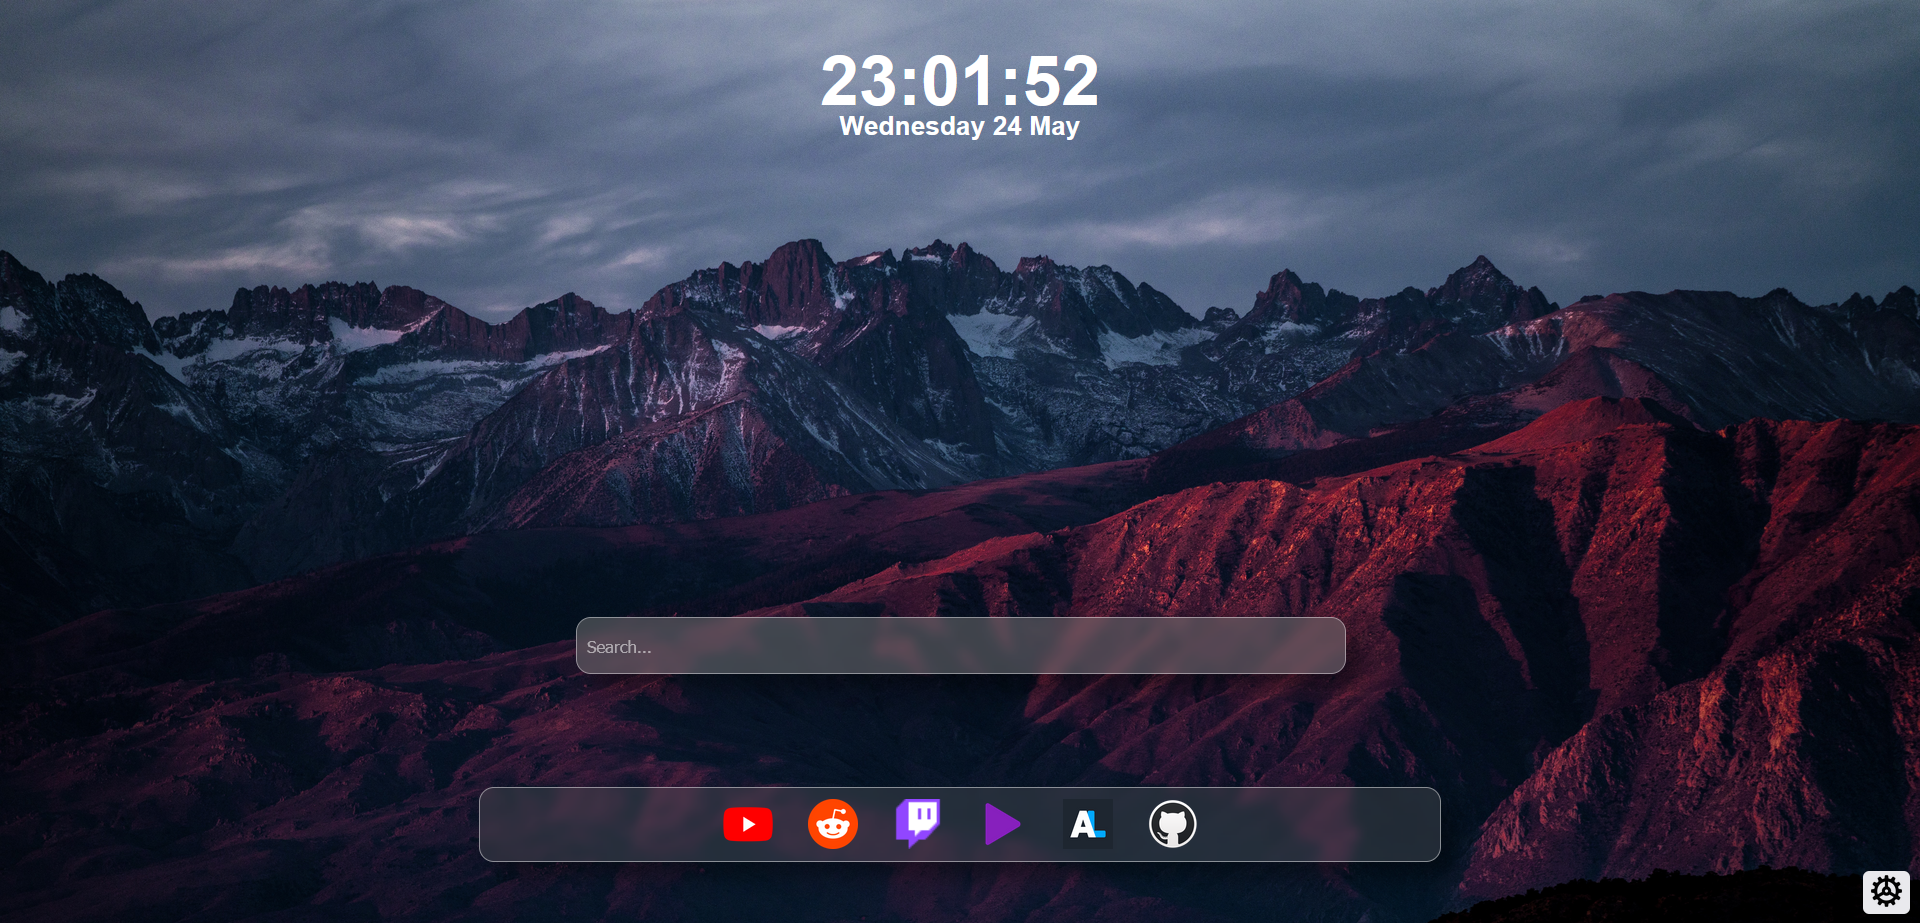
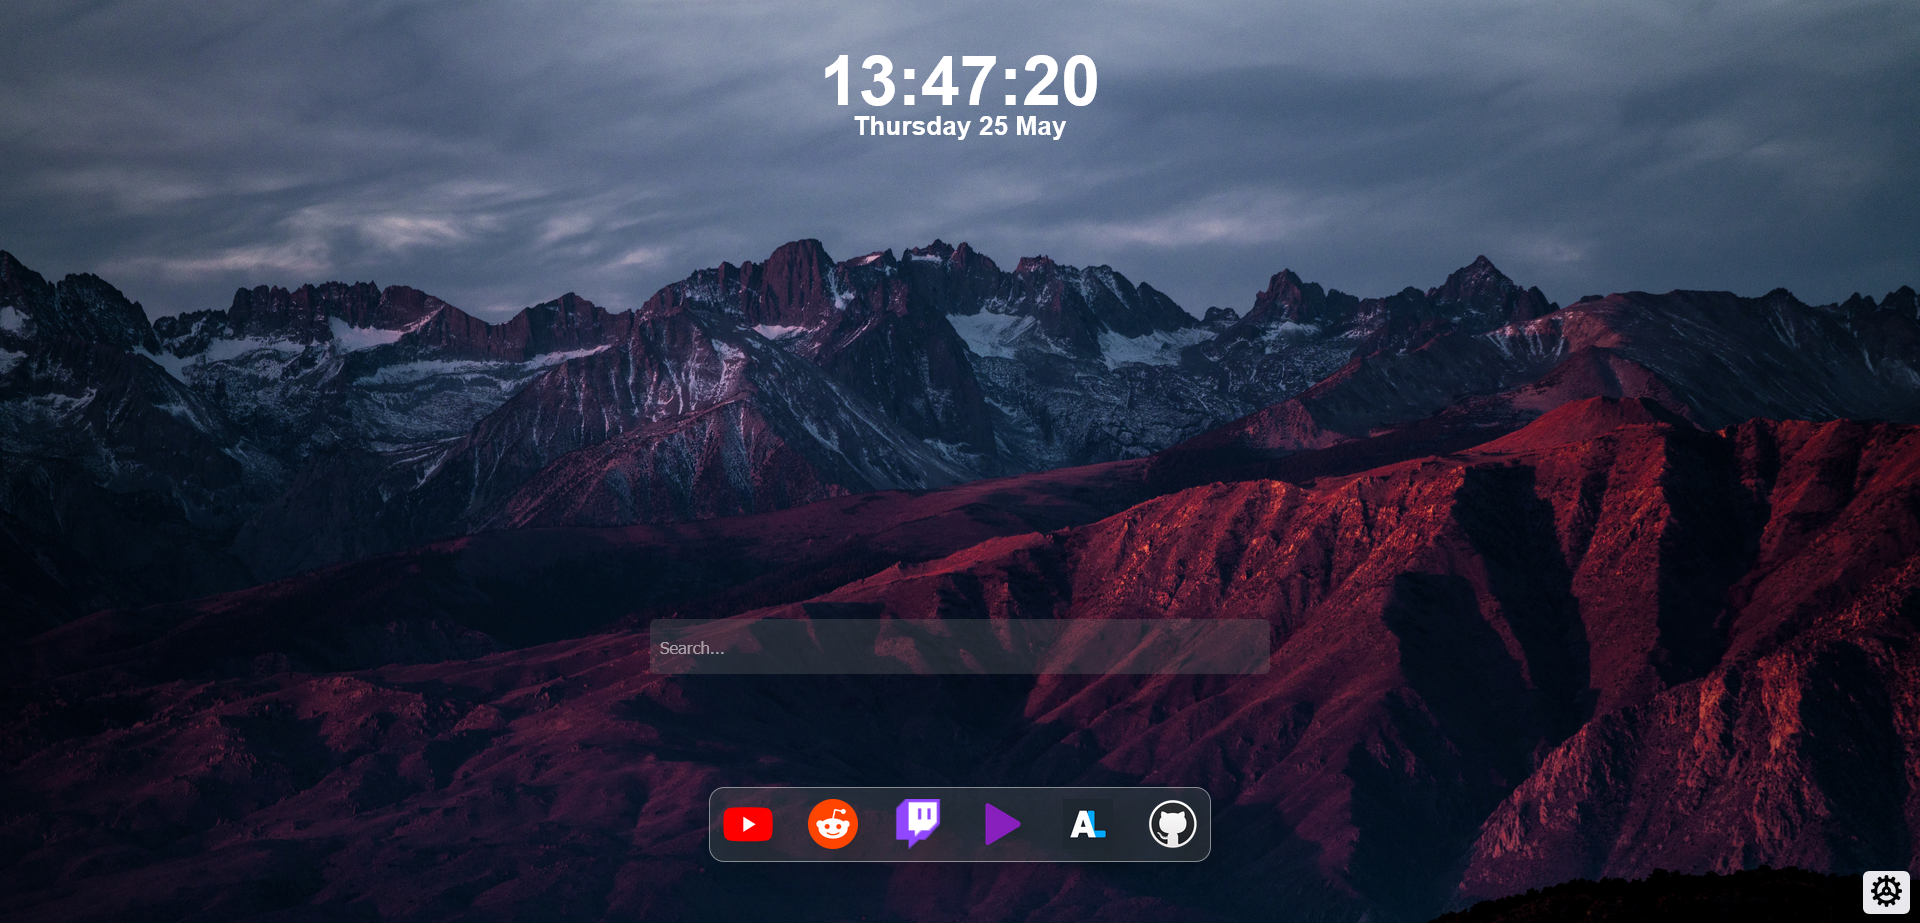
added bookmark dropdown and did some css changes

diff --git a/style.css b/style.css
@@ -70,15 +70,30 @@ input {
   border: none;
   border-radius: 5px;
   padding: 8px;
+  transition: 0.3s;
+}
+input:hover {
+  background: rgba(39, 39, 39, 0.779);
+  transition: 0.3s;
+}
+button {
+  transition: 0.3s;
+}
+button:hover {
+  background: rgba(39, 39, 39, 0.779);
+  transition: 0.3s;
 }
 .bookmark-name {
   margin-top: 4px;
+  width: 93%;
 }
 .bookmark-link {
   margin-top: 4px;
+  width: 93%;
 }
 .bookmark-image {
   margin-top: 4px;
+  width: 93%;
 }
 .gear-wrapper {
   display: flex;
@@ -95,6 +110,10 @@ input {
 .gear-icon {
   height: 30px;
   width: 30px;
+}
+.dialog-flex-container {
+  border-radius: 8px;
+  padding: 10px;
 }
 dialog {
   background-color: rgba(110, 110, 110, 0.278);
@@ -118,6 +137,9 @@ dialog {
   color: white;
   font-size: medium;
   margin-bottom: 5px;
+}
+.addbookmark-dropdown {
+  cursor: pointer;
 }
 .closeDialogButton {
   background-color: rgba(55, 55, 55, 0.779);
@@ -183,4 +205,103 @@ dialog {
   cursor: pointer;
   color: white;
   right: 2px;
+}
+.arrow {
+  margin-left: 2px;
+}
+.arrow-down {
+  transform: rotate(0deg);
+  transition: transform 0.2s linear;
+}
+.arrow-up {
+  transform: rotate(-180deg);
+  transition: transform 0.2s linear;
+}
+.select-menu .select-btn {
+  display: flex;
+  padding: 10px;
+  font-size: 16px;
+  font-weight: 400;
+  border-radius: 8px;
+  margin-top: 5px;
+  align-items: center;
+  cursor: pointer;
+  justify-content: space-between;
+  margin-left: 1px;
+}
+.select-menu .options {
+  position: absolute;
+  width: 450px;
+  overflow-y: auto;
+  max-height: 295px;
+  padding: 10px;
+  margin-top: 0px;
+  border-radius: 8px;
+  background: rgba(55, 55, 55, 0.381);
+  box-shadow: 0 0 10px rgba(0, 0, 0, 0.1);
+  animation-name: fadeInUp;
+  -webkit-animation-name: fadeInUp;
+  animation-duration: 0.35s;
+  animation-fill-mode: both;
+  -webkit-animation-duration: 0.35s;
+  -webkit-animation-fill-mode: both;
+}
+.select-menu .options .option {
+  display: flex;
+  height: 55px;
+  padding: 0 16px;
+  border-radius: 8px;
+  align-items: center;
+  background: rgba(55, 55, 55, 0.779);
+}
+.select-menu .options .option:hover {
+  background: rgba(39, 39, 39, 0.779);
+}
+.select-menu .options .option i {
+  font-size: 25px;
+  margin-right: 12px;
+}
+.select-menu .options .option .option-text {
+  font-size: 18px;
+  color: white;
+}
+
+.select-btn i {
+  font-size: 25px;
+  transition: 0.3s;
+}
+
+.select-menu.active .select-btn i {
+  transform: rotate(-180deg);
+}
+.select-menu.active .options {
+  display: block;
+  opacity: 0;
+  z-index: 10;
+  animation-name: fadeInDown;
+  -webkit-animation-name: fadeInDown;
+  animation-duration: 0.4s;
+  animation-fill-mode: both;
+  -webkit-animation-duration: 0.4s;
+  -webkit-animation-fill-mode: both;
+}
+
+@keyframes fadeInUp {
+  from {
+    transform: translate3d(0, 30px, 0);
+  }
+  to {
+    transform: translate3d(0, 0, 0);
+    opacity: 1;
+  }
+}
+@keyframes fadeInDown {
+  from {
+    transform: translate3d(0, 0, 0);
+    opacity: 1;
+  }
+  to {
+    transform: translate3d(0, 20px, 0);
+    opacity: 0;
+  }
 }

diff --git a/index.html b/index.html
@@ -59,41 +59,42 @@
     <dialog>
       <div class="dialogTitle">Settings</div>
       <div class="dialog-flex-container">
-        <div class="dialog-flex-container">
-          <div class="dialog-text">Image background</div>
-        </div>
-        <div class="input-wrapper">
-          <input
-            id="background"
-            class="background"
-            placeholder="Background image link..."
-          />
-        </div>
-        <div class="dialog-flex-container">
-          <div class="dialog-text">Add bookmark</div>
-        </div>
-        <div class="input-wrapper">
-          <input
-            id="bookmark-name"
-            class="bookmark-name"
-            placeholder="Bookmark name..."
-          />
-        </div>
-        <div class="input-wrapper">
-          <input
-            id="bookmark-link"
-            class="bookmark-link"
-            placeholder="Bookmark link..."
-          />
-        </div>
-        <div class="input-wrapper">
-          <input
-            id="bookmark-image"
-            class="bookmark-image"
-            placeholder="Bookmark image..."
-          />
+        <div class="dialog-text">Image background</div>
+      </div>
+      <div class="input-wrapper">
+        <input
+          id="background"
+          class="background"
+          placeholder="Background image link..."
+        />
+      </div>
+      <div class="select-menu active">
+        <div class="select-btn" id="addbookmark-dropdown">
+          <span class="sBtn-text"
+            >Add bookmark<img
+              src="assets/arrow-16.png"
+              class="arrow arrow-down"
+              id="arrow"
+          /></span>
           <button class="addbookmark-button">Add</button>
         </div>
+        <ul class="options">
+          <input
+            id="bookmark-name"
+            class="bookmark-name option"
+            placeholder="Bookmark name..."
+          />
+          <input
+            id="bookmark-link"
+            class="bookmark-link option"
+            placeholder="Bookmark link..."
+          />
+          <input
+            id="bookmark-image"
+            class="bookmark-image option"
+            placeholder="Bookmark image..."
+          />
+        </ul>
         <button class="closeDialogButton" onclick="closeDialog()">Close</button>
       </div>
     </dialog>

diff --git a/script.js b/script.js
@@ -6,6 +6,37 @@ settingButton = document.getElementById("openDialogButton");
 const dialog = document.querySelector("dialog");
 document.body.style.backgroundImage = `url(${background.value})`;
 const searchbar = document.getElementById("searchbar");
+const optionMenu = document.querySelector(".select-menu"),
+  selectBtn = optionMenu.querySelector(".select-btn"),
+  options = optionMenu.querySelectorAll(".option"),
+  sBtn_text = optionMenu.querySelector(".sBtn-text");
+
+selectBtn.addEventListener("click", () =>
+  optionMenu.classList.toggle("active")
+);
+
+options.forEach((option) => {
+  option.addEventListener("click", () => {
+    let selectedOption = option.querySelector(".option-text").innerText;
+    sBtn_text.innerText = selectedOption;
+
+    optionMenu.classList.remove("active");
+  });
+});
+
+(function (document) {
+  var div = document.getElementById("addbookmark-dropdown");
+  var arrow = document.getElementById("arrow");
+  var open = false;
+  div.addEventListener("click", function () {
+    if (arrow.className == "arrow arrow-down") {
+      arrow.className = "arrow arrow-up";
+    } else if (arrow.className == "arrow arrow-up") {
+      arrow.className = "arrow arrow-down";
+    }
+    open = true;
+  });
+})(document);
 
 searchbar.addEventListener("keypress", function (e) {
   if (e.key === "Enter") {
